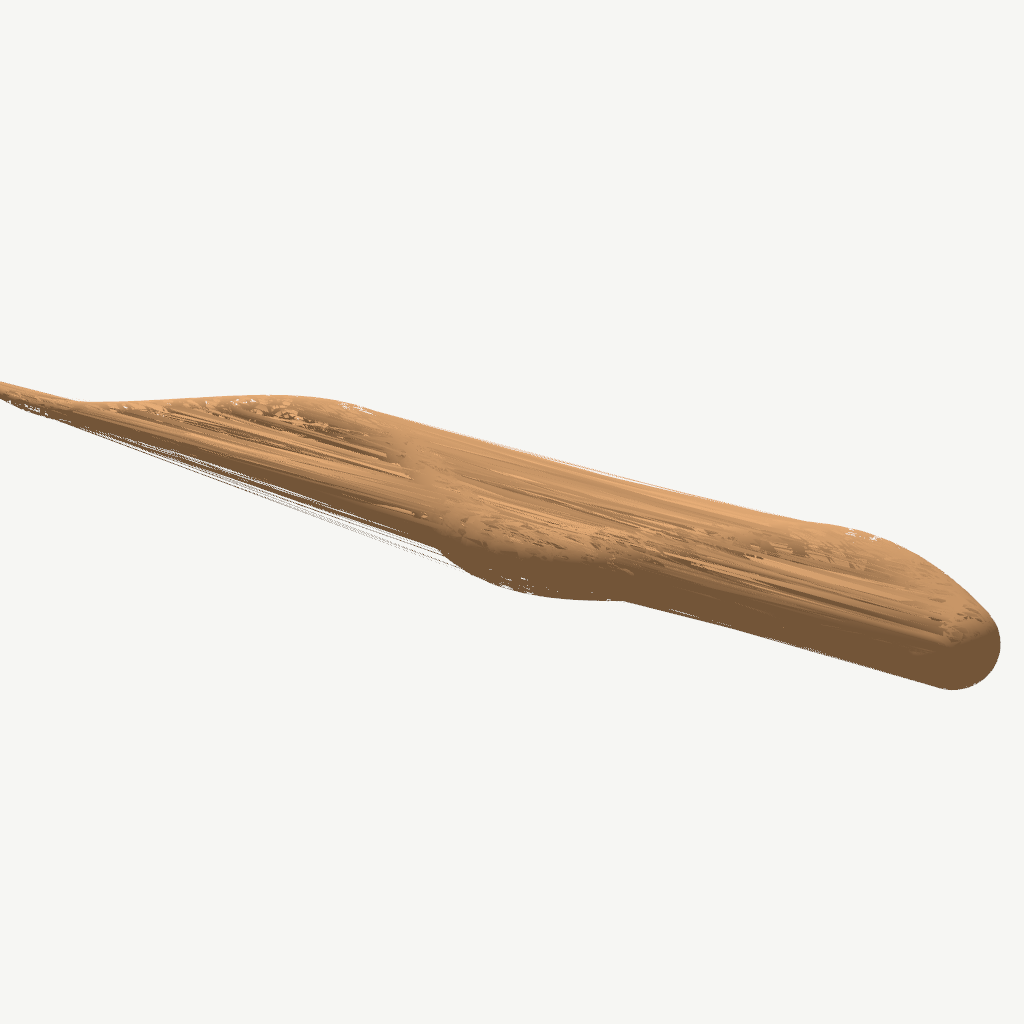
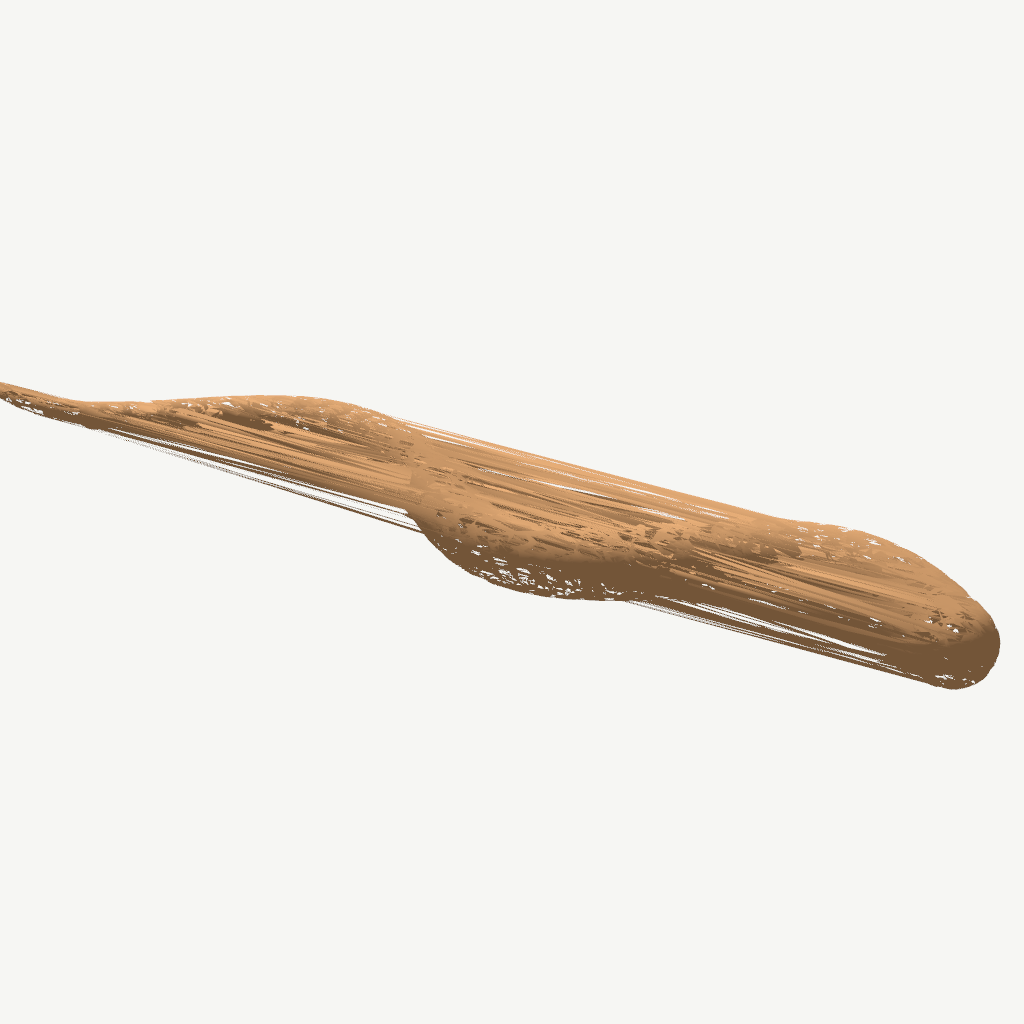
Revert Laplacian smoothing, keep normal averaging. Array+loop codegen for TubePath.
Normal averaging eliminates MC banding on all SDF shapes.
TubePath still has geometric spots from Voronoi boundaries — these
need SDF-level fix, not mesh post-processing.

TubePath codegen now uses const arrays + for loop instead of inline
blocks — supports any segment count without stack overflow.

MC buffer cap increased to 64MB for higher resolutions.

Changed region(s): [[0.0, 0.375, 0.9688, 0.6562], [0.9062, 0.6562, 0.9375, 0.6875]]

diff --git a/crates/reflow_sdf/src/codegen.rs b/crates/reflow_sdf/src/codegen.rs
@@ -129,78 +129,46 @@ impl CodegenContext {
                 format!("sdf_tapered_capsule({}, vec3f({:.6}, {:.6}, {:.6}), vec3f({:.6}, {:.6}, {:.6}), {:.6}, {:.6})",
                     pos, a[0], a[1], a[2], b[0], b[1], b[2], radius_a, radius_b),
             SdfPrimitive::TubePath { points, radii, k: _ } => {
-                // Emit a function that evaluates distance to a tubular polyline.
-                // Finds closest point on the polyline and uses global arc-length
-                // parameterization for radius — ensures radius is continuous
-                // across segment boundaries (no Voronoi artifacts).
+                // Emit a function with constant arrays + loop for the tubular path.
+                // Uses closest-point on polyline with arc-length radius interpolation.
                 let n = points.len().min(radii.len());
                 if n < 2 {
                     "999.0".to_string()
                 } else {
-                    // Precompute cumulative arc lengths
-                    let mut arc_lengths = vec![0.0f32; n];
-                    for i in 1..n {
-                        let dx = points[i][0] - points[i-1][0];
-                        let dy = points[i][1] - points[i-1][1];
-                        let dz = points[i][2] - points[i-1][2];
-                        arc_lengths[i] = arc_lengths[i-1] + (dx*dx + dy*dy + dz*dz).sqrt();
-                    }
-                    let total_len = arc_lengths[n-1];
-
                     let fn_name = format!("sdf_tube_{}", var);
-                    let mut func = format!("fn {}(p: vec3f) -> f32 {{\n", fn_name);
-                    // Find closest point + its arc-length parameter
+                    let mut func = String::new();
+
+                    // Emit constant arrays
+                    func.push_str(&format!("const TUBE_{}_N: u32 = {}u;\n", var, n));
+                    func.push_str(&format!("const TUBE_{}_PTS: array<vec3f, {}> = array<vec3f, {}>(\n", var, n, n));
+                    for (i, p) in points.iter().take(n).enumerate() {
+                        func.push_str(&format!("  vec3f({:.6}, {:.6}, {:.6}){}\n",
+                            p[0], p[1], p[2], if i < n - 1 { "," } else { "" }));
+                    }
+                    func.push_str(");\n");
+                    func.push_str(&format!("const TUBE_{}_RAD: array<f32, {}> = array<f32, {}>(\n", var, n, n));
+                    for (i, r) in radii.iter().take(n).enumerate() {
+                        func.push_str(&format!("  {:.6}{}\n", r, if i < n - 1 { "," } else { "" }));
+                    }
+                    func.push_str(");\n");
+
+                    // Emit function with loop
+                    func.push_str(&format!("fn {}(p: vec3f) -> f32 {{\n", fn_name));
                     func.push_str("  var best_d2 = 1e10;\n");
-                    func.push_str("  var best_t = 0.0;\n"); // global [0,1] parameter
-                    for i in 0..n - 1 {
-                        let a = points[i];
-                        let b = points[i + 1];
-                        let arc_a = arc_lengths[i];
-                        let arc_b = arc_lengths[i + 1];
-                        func.push_str(&format!(
-                            "  {{\n    let a = vec3f({:.6}, {:.6}, {:.6});\n    let b = vec3f({:.6}, {:.6}, {:.6});\n",
-                            a[0], a[1], a[2], b[0], b[1], b[2]
-                        ));
-                        func.push_str("    let ba = b - a;\n");
-                        func.push_str("    let pa = p - a;\n");
-                        func.push_str("    let h = clamp(dot(pa, ba) / dot(ba, ba), 0.0, 1.0);\n");
-                        func.push_str("    let closest = pa - ba * h;\n");
-                        func.push_str("    let d2 = dot(closest, closest);\n");
-                        // Arc-length parameter at closest point
-                        func.push_str(&format!(
-                            "    let t = mix({:.6}, {:.6}, h);\n",
-                            arc_a / total_len, arc_b / total_len
-                        ));
-                        func.push_str("    if d2 < best_d2 { best_d2 = d2; best_t = t; }\n");
-                        func.push_str("  }\n");
-                    }
-                    // Interpolate radius from global arc-length parameter
-                    // Emit piecewise linear radius lookup from the profile
-                    func.push_str("  // Radius from arc-length parameter\n");
-                    func.push_str("  var r = 0.0;\n");
-                    for i in 0..n - 1 {
-                        let t_a = arc_lengths[i] / total_len;
-                        let t_b = arc_lengths[i + 1] / total_len;
-                        let ra = radii[i];
-                        let rb = radii[i + 1];
-                        if i == 0 {
-                            func.push_str(&format!(
-                                "  if best_t < {:.6} {{ r = mix({:.6}, {:.6}, best_t / {:.6}); }}\n",
-                                t_b, ra, rb, t_b
-                            ));
-                        } else if i == n - 2 {
-                            func.push_str(&format!(
-                                "  else {{ r = mix({:.6}, {:.6}, (best_t - {:.6}) / {:.6}); }}\n",
-                                ra, rb, t_a, t_b - t_a
-                            ));
-                        } else {
-                            func.push_str(&format!(
-                                "  else if best_t < {:.6} {{ r = mix({:.6}, {:.6}, (best_t - {:.6}) / {:.6}); }}\n",
-                                t_b, ra, rb, t_a, t_b - t_a
-                            ));
-                        }
-                    }
-                    func.push_str("  return sqrt(best_d2) - r;\n}\n");
+                    func.push_str("  var best_r = 0.0;\n");
+                    func.push_str(&format!("  for (var i = 0u; i < TUBE_{}_N - 1u; i = i + 1u) {{\n", var));
+                    func.push_str(&format!("    let a = TUBE_{}_PTS[i];\n", var));
+                    func.push_str(&format!("    let b = TUBE_{}_PTS[i + 1u];\n", var));
+                    func.push_str("    let ba = b - a;\n");
+                    func.push_str("    let pa = p - a;\n");
+                    func.push_str("    let h = clamp(dot(pa, ba) / dot(ba, ba), 0.0, 1.0);\n");
+                    func.push_str("    let closest = pa - ba * h;\n");
+                    func.push_str("    let d2 = dot(closest, closest);\n");
+                    func.push_str(&format!("    let r = mix(TUBE_{}_RAD[i], TUBE_{}_RAD[i + 1u], h);\n", var, var));
+                    func.push_str("    if d2 < best_d2 { best_d2 = d2; best_r = r; }\n");
+                    func.push_str("  }\n");
+                    func.push_str("  return sqrt(best_d2) - best_r;\n}\n");
+
                     self.helpers.push(func);
                     format!("{}({})", fn_name, pos)
                 }

diff --git a/crates/reflow_components/src/gpu/sdf/marching_cubes.rs b/crates/reflow_components/src/gpu/sdf/marching_cubes.rs
@@ -372,12 +372,10 @@ fn smooth_normals(data: &[u8]) -> Vec<u8> {
     }
 
     // Spatial hashing: quantize positions to detect shared vertices.
-    // Two vertices are "shared" if their positions match within epsilon.
     use std::collections::HashMap;
     let epsilon = 1e-5;
     let inv_eps = 1.0 / epsilon;
 
-    // Map: quantized position key → list of vertex indices at that position
     let mut buckets: HashMap<(i64, i64, i64), Vec<usize>> = HashMap::new();
     for (i, p) in positions.iter().enumerate() {
         let key = (
@@ -388,27 +386,20 @@ fn smooth_normals(data: &[u8]) -> Vec<u8> {
         buckets.entry(key).or_default().push(i);
     }
 
-    // For each bucket, compute the average normal and assign to all vertices
+    // Smooth normals: average across shared vertices to eliminate MC banding
     let mut smoothed = normals.clone();
     for indices in buckets.values() {
-        if indices.len() <= 1 {
-            continue;
-        }
-        // Accumulate normals
+        if indices.len() <= 1 { continue; }
         let mut avg = [0.0f32; 3];
         for &idx in indices {
             avg[0] += normals[idx][0];
             avg[1] += normals[idx][1];
             avg[2] += normals[idx][2];
         }
-        // Normalize
         let len = (avg[0] * avg[0] + avg[1] * avg[1] + avg[2] * avg[2]).sqrt();
         if len > 1e-8 {
-            avg[0] /= len;
-            avg[1] /= len;
-            avg[2] /= len;
+            avg[0] /= len; avg[1] /= len; avg[2] /= len;
         }
-        // Write back
         for &idx in indices {
             smoothed[idx] = avg;
         }
